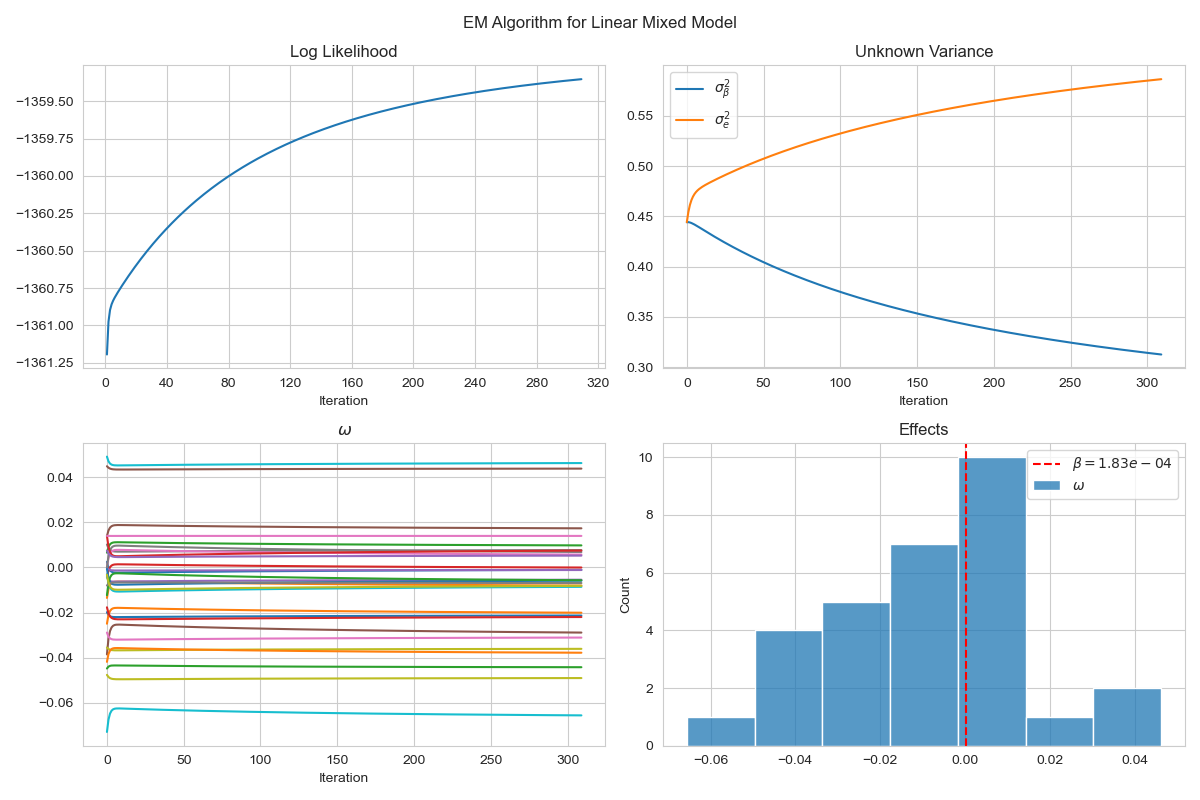
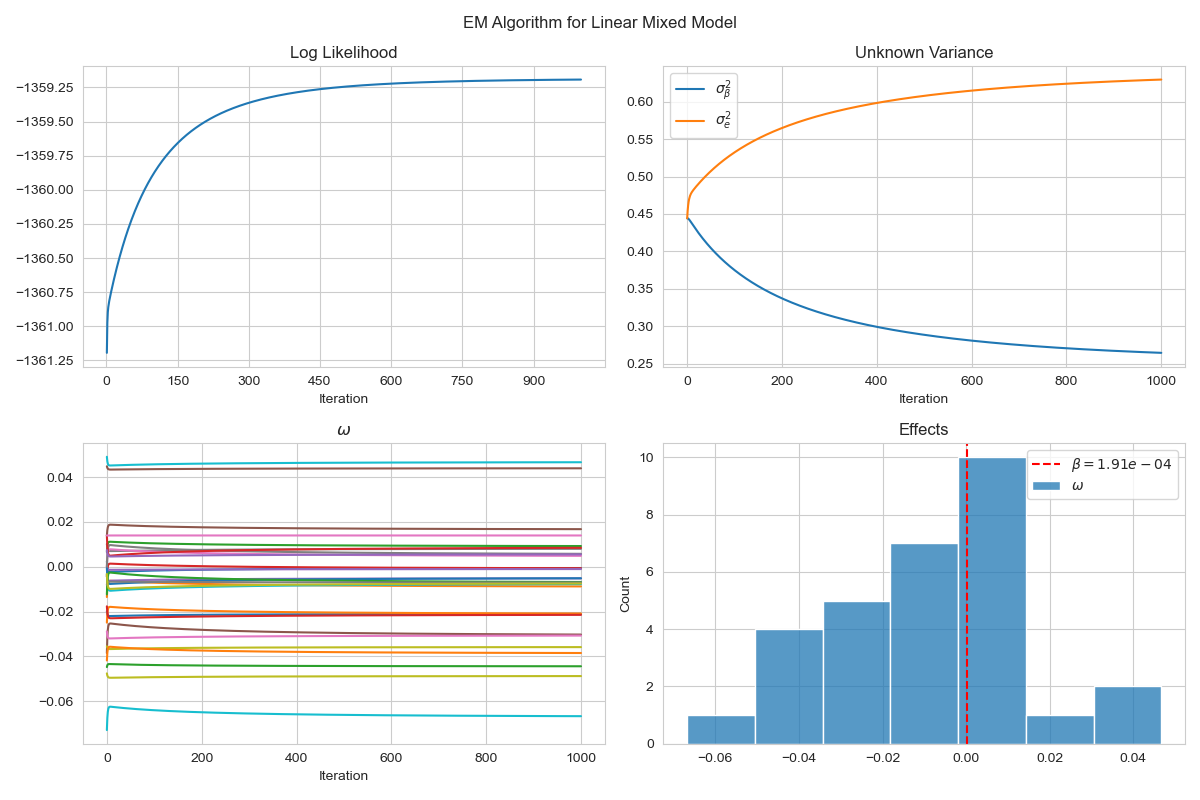
[add] docs/GMM.md

diff --git a/lm_numpyro.py b/lm_numpyro.py
@@ -1,4 +1,5 @@
 import os, time, argparse
+import jax
 
 import numpy as np
 import matplotlib.pyplot as plt
@@ -17,13 +18,13 @@ def generate_data(n, p, sigma_beta2, sigma_epsilon2):
     """
     Y=X*beta+epsilon
     """
-    np.random.seed(0)
     X = np.random.randn(n, p)
-    mu = np.random.randn(p, 1)
-    beta = np.random.randn(p, 1) * sigma_beta2**0.5 + mu
+    # mu = np.random.randn(p, 1)
+    beta = np.random.randn(p, 1) * sigma_beta2**0.5  # + mu
     epsilon = np.random.randn(n, 1) * sigma_epsilon2**0.5
     Y = X @ beta + epsilon
-    return dict(X=X, Y=Y, mu=mu, beta=beta, epsilon=epsilon)
+    print("beta true mean: ", beta.mean())
+    return dict(X=X, Y=Y, beta=beta, epsilon=epsilon)
 
 
 def lm(X, Y):
@@ -39,23 +40,35 @@ def lm(X, Y):
         sigma_beta2_post: posterior variance of beta
         sigma_epsilon2_post: posterior variance of epsilon
     """
-    _, p = X.shape
+    n, p = X.shape
     # beta
-    mu = numpyro.sample("mu", dist.Normal(0, 1).expand([p, 1]))
-    sigma_beta2 = numpyro.sample("sigma_beta2", dist.HalfNormal(2))
-    beta = numpyro.sample("beta", dist.Normal(mu, sigma_beta2**0.5))
+    # mu = numpyro.sample("mu", dist.Normal(0, 1).expand([p, 1]))
+    sigma_beta2 = numpyro.sample("sigma_beta2", dist.HalfNormal(1))
+    # beta = numpyro.sample(
+    #     "beta",
+    #     dist.MultivariateNormal(jnp.zeros((p,)), jnp.sqrt(sigma_beta2) * jnp.eye(p)),
+    # )
+    beta = numpyro.sample("beta", dist.Normal(0, jnp.sqrt(sigma_beta2)).expand([p, 1]))
+    # beta = numpyro.sample("beta", dist.Normal(mu, jnp.sqrt(sigma_beta2)))
     # epsilon
-    sigma_epsilon2 = numpyro.sample("sigma_epsilon2", dist.HalfNormal(0.1))
+    sigma_epsilon2 = numpyro.sample("sigma_epsilon2", dist.HalfNormal(0.5))
     # print("beta: ", beta.shape)
     # print("X: ", X.shape)
     # deterministic statement
     y_hat = numpyro.deterministic("y_hat", X @ beta)
-    numpyro.sample("Y", dist.Normal(y_hat, sigma_epsilon2**0.5), obs=Y)
+    numpyro.sample("Y", dist.Normal(y_hat, jnp.sqrt(sigma_epsilon2)), obs=Y)
+
+
+def lm_simple(X, Y):
+    beta = numpyro.sample("beta", dist.Normal(0, 1).expand([X.shape[1], 1]))
+    mu = numpyro.deterministic("mu", X @ beta)
+    numpyro.sample("Y", dist.Normal(mu, 1), obs=Y)
 
 
 def run_inference(X, Y, rng_key, method, args):
+    model = lm
     if method == "mcmc":
-        kernel = NUTS(lm)
+        kernel = NUTS(model)
         mcmc = MCMC(
             kernel,
             num_warmup=args.num_warmup,
@@ -64,12 +77,12 @@ def run_inference(X, Y, rng_key, method, args):
             progress_bar=False if "NUMPYRO_SPHINXBUILD" in os.environ else True,
         )
         mcmc.run(rng_key, X, Y)
-        # mcmc.print_summary()ß
+        # mcmc.print_summary()
         return mcmc.get_samples()
     elif method == "svi" or method == "map":
-        guide = AutoDelta(lm) if method == "map" else AutoNormal(lm)
+        guide = AutoDelta(model) if method == "map" else AutoNormal(model)
         optimizer = optim.Adam(0.001)
-        svi = SVI(lm, guide, optimizer, Trace_ELBO(), X=X, Y=Y)
+        svi = SVI(model, guide, optimizer, Trace_ELBO(), X=X, Y=Y)
         svi_result = svi.run(rng_key, args.maxiter)
         return svi_result
     else:
@@ -85,53 +98,54 @@ def plot_results(method, result, start_time, end_time, args):
         # get posterior variance of epsilon
         sigma_epsilon2_post = result["sigma_epsilon2"]
         title = "MCMC with NUTS: %.3f s" % (end_time - start_time)
-        file_name = "lm_numpyro_mcmc.png"
+        # plot
+        plt.figure(figsize=(6, 4))
+        plt.plot(beta_post_mean, label="beta")
+        plt.plot(sigma_beta2_post, "r", label="sigma_beta2")
+        plt.hlines(
+            args.sigma_beta2,
+            0,
+            len(beta_post_mean),
+            colors="r",
+            linestyles="dashed",
+            label="sigma_beta2_true",
+        )
+        plt.plot(sigma_epsilon2_post, "y", label="sigma_epsilon2")
+        plt.hlines(
+            args.sigma_epsilon2,
+            0,
+            len(sigma_epsilon2_post),
+            colors="y",
+            linestyles="dashed",
+            label="sigma_epsilon2_true",
+        )
+        plt.xlabel("Iterations")
+        plt.ylabel("posterior value")
+        plt.legend()
+        plt.title(title)
+        plt.tight_layout()
+        file_name = "img/lm_numpyro_%s.png" % method
+        plt.savefig(file_name)
     else:
         params = result.params
         beta_post_mean = params["beta_auto_loc"]
         sigma_beta2_post = params["sigma_beta2_auto_loc"]
         sigma_epsilon2_post = params["sigma_epsilon2_auto_loc"]
         elbo = result.losses
+        plt.figure(figsize=(6, 4))
         plt.plot(elbo)
         plt.xlabel("Iterations")
         plt.ylabel("ELBO")
         plt.title("ELBO during training")
         plt.tight_layout()
-        plt.savefig("lm_numpyro_elbo.png")
+        plt.savefig("img/lm_numpyro_%s_elbo.png" % method)
 
         title = (
             "SVI with AutoNormal: %.3f s" % (end_time - start_time)
             if method == "svi"
             else "MAP with AutoDelta: %.3f s" % (end_time - start_time)
         )
-        file_name = "lm_numpyro_%s.png" % method
 
-    # plot
-    plt.figure(figsize=(6, 4))
-    plt.plot(beta_post_mean, label="beta")
-    # plot horizontal line
-    plt.plot(sigma_beta2_post, label="sigma_beta2")
-    plt.hlines(
-        args.sigma_beta2,
-        0,
-        plt.xlim()[1],
-        linestyles="dashed",
-        label="sigma_beta2_true",
-    )
-    plt.plot(sigma_epsilon2_post, label="sigma_epsilon2")
-    plt.hlines(
-        args.sigma_epsilon2,
-        0,
-        plt.xlim()[1],
-        linestyles="dashed",
-        label="sigma_epsilon2_true",
-    )
-    plt.xlabel("Iterations")
-    plt.ylabel("posterior value")
-    plt.legend()
-    plt.title(title)
-    plt.tight_layout()
-    plt.savefig(file_name)
     plt.show()
 
     # print results
@@ -156,13 +170,13 @@ def main(args):
     y = jnp.array(data["Y"])
     X = jnp.array(data["X"])
 
-    method = "mcmc"
+    # method = "mcmc"
     # method = "svi"
-    # method = "map"
+    method = "map"
 
     # record time
     start_time = time.time()
-    rng_key = random.PRNGKey(1)
+    rng_key = random.PRNGKey(args.seed)
     result = run_inference(X, y, rng_key, method, args)
     end_time = time.time()
     plot_results(method, result, start_time, end_time, args)
@@ -175,9 +189,9 @@ def main(args):
 if __name__ == "__main__":
     parser = argparse.ArgumentParser("Linear Regression")
     parser.add_argument("--seed", nargs="?", default=42, type=int)
-    parser.add_argument("-n", "--num-samples", nargs="?", default=200, type=int)
+    parser.add_argument("-n", "--num-samples", nargs="?", default=100, type=int)
     parser.add_argument("-p", "--dim", nargs="?", default=10, type=int)
-    parser.add_argument("--sigma-beta2", nargs="?", default=0.5, type=float)
+    parser.add_argument("--sigma-beta2", nargs="?", default=2, type=float)
     parser.add_argument("--sigma-epsilon2", nargs="?", default=0.01, type=float)
     parser.add_argument("--num-warmup", nargs="?", default=20, type=int)
     parser.add_argument("--num-chains", nargs="?", default=1, type=int)
@@ -188,5 +202,6 @@ if __name__ == "__main__":
 
     numpyro.set_platform(args.device)
     numpyro.set_host_device_count(args.num_chains)
+    np.random.seed(args.seed)
 
     main(args)

diff --git a/lmm_em.py b/lmm_em.py
@@ -311,7 +311,7 @@ if __name__ == "__main__":
         sigma_beta2_list,
         sigma_e2_list,
         beta_post_mean,
-    ) = lmm_em(y, X, Z, tol=1e-3, max_iter=1000)
+    ) = lmm_em(y, X, Z, tol=1e-6, max_iter=1000)
     end_time = time.time()
     print(
         "Run time: %d min %.2f s"

diff --git a/docs/GMM.md b/docs/GMM.md
@@ -1,0 +1,77 @@
+# Generalized Method of Moments (GMM)
+
+- [Generalized Method of Moments (GMM)](#generalized-method-of-moments-gmm)
+  - [From MM to GMM](#from-mm-to-gmm)
+  - [Population Moments Conditions](#population-moments-conditions)
+  - [GMM Estimator](#gmm-estimator)
+  - [Implementation](#implementation)
+  - [References](#references)
+
+## From MM to GMM
+
+In the linear regression, $k+1$ moments conditions yield $k+1$ equations and thus $k+1$ parameter estimates. If there are more moments conditions than parameters to be estimated, the moments equations cannot be solved exactly. This case is called GMM (generalized method of moments).
+
+In GMM, moments conditions are solved approximately. To this aim, single condition equations are **weighted**.
+
+## Population Moments Conditions
+
+**Definition:** Let $\theta_0$ be a true unknown vector parameter to be estimated, $v_t$ a vector of random variables, and $f(.)$ **a vector of functions**. Then, a population moment condition takes the form
+
+$$
+E\{f(v_t, \theta_0)\} = 0, t \in T.
+$$
+
+Often, $f(.)$ will contain linear functions only, then the problem essentially becomes one of linear regression. In other cases, $f(.)$ may still be products of errors and functions of observed variables, then the problem becomes one of non-linear regression. The definition is even more general.
+
+## GMM Estimator
+
+The basic idea behind GMM is to replace the theoretical expected value E[⋅] with its empirical analog—sample average:
+
+$$
+\hat{m}(\theta)\equiv n^{-1} \sum_{t=1}^n f(v_t, \theta)\quad \text{and} \quad \hat{m}(\theta_0) = 0.
+$$
+
+which is equivalent to minimizing a certain norm of $\hat{m}(\theta)$:
+
+$$
+\hat{\theta} = \arg \min_{\theta} \|\hat{m}(\theta)\|_W^2=\arg \min_{\theta} \hat{m}(\theta)'W\hat{m}(\theta),
+$$
+
+where $W$ is a positive definite matrix. The GMM estimator is the value of $\theta$ that minimizes the above expression.
+
+**Definition:** The Generalized Method of Moments estimator based on these population moments conditions is the value of $\theta$ that minimizes
+
+$$
+Q_n(\theta) = \left\{n^{-1} \sum_{t=1}^n f(v_t, \theta)'\right\} W_n \left\{n^{-1} \sum_{t=1}^n f(v_t, \theta)\right\},
+$$
+
+where $W_n$ is a non-negative definite matrix that usually depends on the data but converges to a constant positive definite matrix as $n \to \infty$.
+
+## Implementation
+
+One difficulty with implementing the outlined method is that we cannot take $W=\Omega^{-1}$ because, by the definition of matrix $\Omega$, we need to know the value of $\theta_0$ in order to compute this matrix, and $\theta_0$ is precisely the quantity we do not know and are trying to estimate in the first place. In the case of $Y_t$ being iid we can estimate $W$ as
+$$
+\hat{W}_T(\hat{\theta})=\left(\frac{1}{T} \sum_{t=1}^T g\left(Y_t, \hat{\theta}\right) g\left(Y_t, \hat{\theta}\right)^{\top}\right)^{-1} .
+$$
+
+Several approaches exist to deal with this issue, the first one being the most popular:
+- Two-step feasible GMM:
+- Step 1: Take $W=$ I (the identity matrix) or some other positive-definite matrix, and compute preliminary GMM estimate $\hat{\theta}_{(1)}$. This estimator is consistent for $\theta_0$, although not efficient.
+- Step 2: $\hat{W}_T\left(\hat{\theta}_{(1)}\right)$ converges in probability to $\Omega^{-1}$ and therefore if we compute $\hat{\theta}$ with this weighting matrix, the estimator will be asymptotically efficient.
+- Iterated GMM. Essentially the same procedure as 2-step GMM, except that the matrix $\hat{W}_T$ is recalculated several times. That is, the estimate obtained in step 2 is used to calculate the weighting matrix for step 3 , and so on until some convergence criterion is met.
+$$
+\hat{\theta}_{(i+1)}=\arg \min _{\theta \in \Theta}\left(\frac{1}{T} \sum_{t=1}^T g\left(Y_t, \theta\right)\right)^{\top} \hat{W}_T\left(\hat{\theta}_{(i)}\right)\left(\frac{1}{T} \sum_{t=1}^T g\left(Y_t, \theta\right)\right)
+$$
+
+Asymptotically no improvement can be achieved through such iterations, although certain Monte-Carlo experiments suggest that finite-sample properties of this estimator are slightly better. [citation needed]
+- Continuously updating GMM (CUGMM, or CUE). Estimates $\hat{\theta}$ simultaneously with estimating the weighting matrix $W$ :
+$$
+\hat{\theta}=\arg \min _{\theta \in \Theta}\left(\frac{1}{T} \sum_{t=1}^T g\left(Y_t, \theta\right)\right)^{\top} \hat{W}_T(\theta)\left(\frac{1}{T} \sum_{t=1}^T g\left(Y_t, \theta\right)\right)
+$$
+
+In Monte-Carlo experiments this method demonstrated a better performance than the traditional two-step GMM: the estimator has smaller median bias (although fatter tails), and the J-test for overidentifying restrictions in many cases was more reliable.
+
+## References
+
+- https://homepage.univie.ac.at/robert.kunst/gmm.pdf
+- https://en.wikipedia.org/wiki/Generalized_method_of_moments

diff --git a/docs/index.md b/docs/index.md
@@ -7,6 +7,8 @@
 
 [EM Algorithm with MFVI](https://lucajiang.github.io/Mixed-Effect-Model-Numerical-Algorithm/lmm_mfvi)
 
+[GMM](https://lucajiang.github.io/Mixed-Effect-Model-Numerical-Algorithm/gmm)
+
 ## Codes:
 [Explore data](https://lucajiang.github.io/Mixed-Effect-Model-Numerical-Algorithm/explore_data)
 
